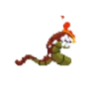
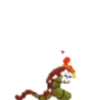
abc

Changed region(s): [[0.12, 0.15, 0.78, 1.0]]

diff --git a/main.py b/main.py
@@ -47,7 +47,7 @@ MASTERYI_OFFSET = [72, 56]
 MASTERYI_DATA = [MASTERYI_SIZE, MASTERYI_SCALE, MASTERYI_OFFSET]
 CASSIOPEIA_SIZE = 125
 CASSIOPEIA_SCALE = 2
-CASSIOPEIA_OFFSET = [112, 107]
+CASSIOPEIA_OFFSET = [50, -10]
 CASSIOPEIA_DATA = [CASSIOPEIA_SIZE, CASSIOPEIA_SCALE, CASSIOPEIA_OFFSET]
 
 #load music and sounds
@@ -124,7 +124,7 @@ def draw_health_bar(health, x, y):
 
 #function for drawing avatar
 def draw_avatar(avatar1, avatar2):
-  screen.blit(avatar1, (400, 20))
+  screen.blit(avatar1, (400, 0))
   screen.blit(avatar2, (500, 0))
   
 
@@ -242,20 +242,16 @@ while run:
     fighter_1.draw(screen)
     fighter_2.draw(screen)
 
-    #check for player defeat
+      #check for player defeat
     if round_over == False:
       if fighter_1.alive == False:
         score[1] += 1
         round_over = True
         round_over_time = pygame.time.get_ticks()
-        fighter_1.alive = True
-        fighter_1.health = 100
       elif fighter_2.alive == False:
         score[0] += 1
         round_over = True
         round_over_time = pygame.time.get_ticks()
-        fighter_2.alive = True
-        fighter_2.health = 100
     else:
       #display victory image
       screen.blit(victory_img, (360, 150))
@@ -264,6 +260,18 @@ while run:
         intro_count = 3
         game_state = "character"
         choose_character = False
+        fighter_2.alive = True
+        fighter_2.health = 100
+        fighter_1.alive = True
+        fighter_1.health = 100
+        yone_1 = Fighter(1, 200, 310, False, YONE_DATA, yone_sheet, YONE_ANIMATION_STEPS, sword_fx)
+        yone_2 = Fighter(2, 700, 310, True, YONE_DATA, yone_sheet, YONE_ANIMATION_STEPS, sword_fx)
+        karthus_1 = Fighter(1, 200, 310, False, KARTHUS_DATA, karthus_sheet, KARTHUS_ANIMATION_STEPS, magic_fx)
+        karthus_2 = Fighter(2, 700, 310, True, KARTHUS_DATA, karthus_sheet, KARTHUS_ANIMATION_STEPS, magic_fx)
+        masteryi_1 = Fighter(1, 200, 310, False, MASTERYI_DATA, masteryi_sheet, MASTERYI_ANIMATION_STEPS, sword_fx)
+        masteryi_2 = Fighter(2, 700, 310, True, MASTERYI_DATA, masteryi_sheet, MASTERYI_ANIMATION_STEPS, sword_fx)
+        cassiopeia_1 = Fighter(1, 200, 310, False, CASSIOPEIA_DATA, cassiopeia_sheet, CASSIOPEIA_ANIMATION_STEPS, magic_fx)
+        cassiopeia_2 = Fighter(2, 700, 310, True, CASSIOPEIA_DATA, cassiopeia_sheet, CASSIOPEIA_ANIMATION_STEPS, magic_fx)
 
 
   #event handler
